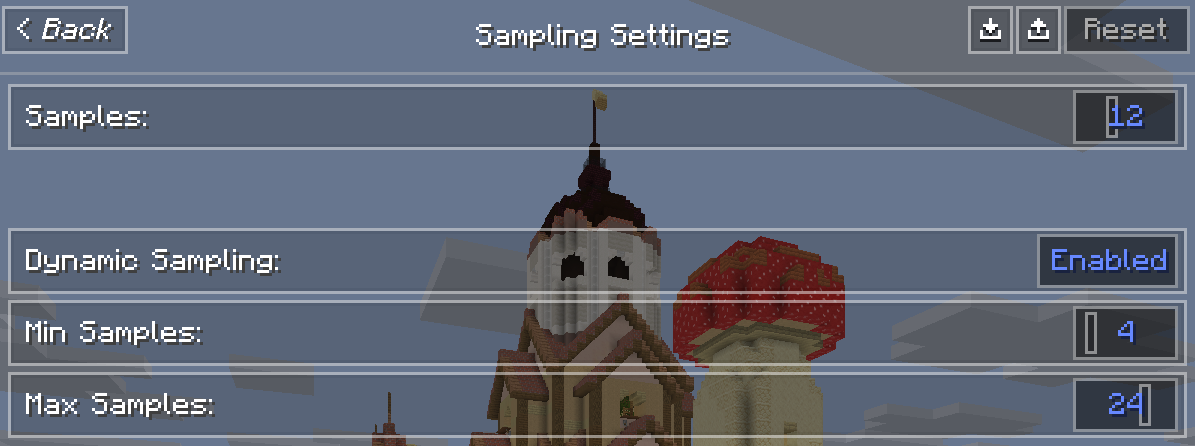
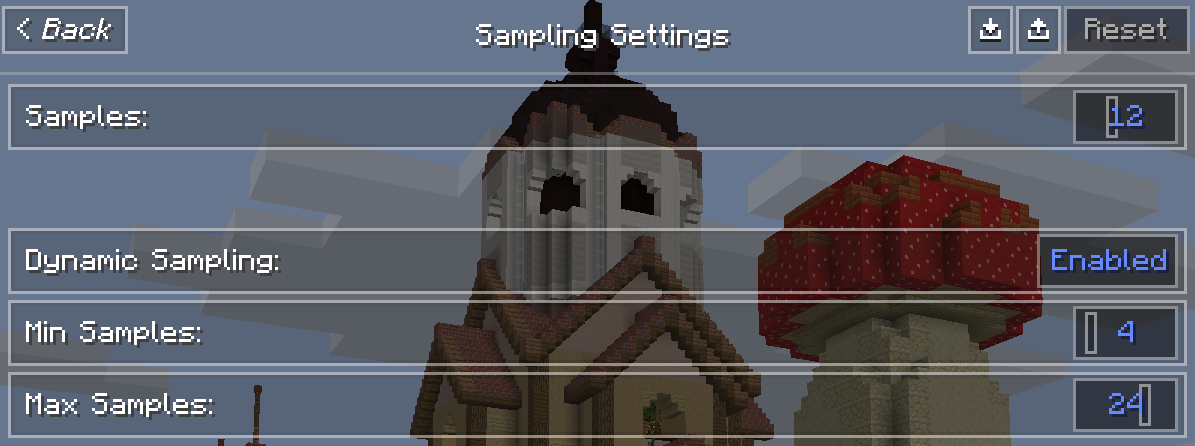
directional shading! bumped to v1.4

diff --git a/README.md b/README.md
@@ -5,25 +5,54 @@ Also, please try playing with settings. You may not like the default config, may
 
 Shader Settings
 ---
-![shader settings](https://github.com/ThunderFound/thunders-motion-blur/blob/main/images/thunders-mb-settings.png?raw=true)
-
+![shader settings](https://github.com/ThunderFound/thunders-motion-blur/blob/main/images/thunders-mb-settings.png?raw=true)  
 Intensity - how strong blur is  
 Max Velocity - limits blur streak length  
 Hand Blur - whether hand should be blurred too  
-Dither Mode - dithering algorithm for debanding  
-Depth Dilation - reduces blur bleeding at edges
+Dither Mode - dithering algorithm for debanding (examples further down)  
+Depth Dilation - reduces blur bleeding at edges  
+<br/>
 
-![sampling settings](https://github.com/ThunderFound/thunders-motion-blur/blob/main/images/thunders-mb-settings-sampling.png?raw=true)
+![sampling settings](https://github.com/ThunderFound/thunders-motion-blur/blob/main/images/thunders-mb-settings-sampling.png?raw=true)  
 Samples - more = smoother, but slower  
-Dynamic Sampling - change samples value based on velocity
+Dynamic Sampling - change samples value based on velocity  
+<br/>
+
+![extra settings](https://github.com/ThunderFound/thunders-motion-blur/blob/main/images/thunders-mb-settings-extra.png?raw=true)  
+Directional Shading (examples further down)  
+<br/>
 
 Dither modes
 ---
-### Off
-![off](https://github.com/ThunderFound/thunders-motion-blur/blob/main/images/off.png?raw=true)
+<table frame="void" rules="none">
+  <tr>
+    <td align="center">
+      Off<br>
+      <img src="https://github.com/ThunderFound/thunders-motion-blur/blob/main/images/off.png?raw=true" width="100%">
+    </td>
+    <td align="center">
+      IGN<br>
+      <img src="https://github.com/ThunderFound/thunders-motion-blur/blob/main/images/ign.png?raw=true" width="100%">
+    </td>
+    <td align="center">
+      Blue Noise<br>
+      <img src="https://github.com/ThunderFound/thunders-motion-blur/blob/main/images/blue_noise.png?raw=true" width="100%">
+    </td>
+  </tr>
+</table>
+<br/>
 
-### IGN
-![ign](https://github.com/ThunderFound/thunders-motion-blur/blob/main/images/ign.png?raw=true)
-
-### Blue Noise
-![blue noise](https://github.com/ThunderFound/thunders-motion-blur/blob/main/images/blue_noise.png?raw=true)
+Directional Shading
+---
+<table frame="void" rules="none">
+  <tr>
+    <td align="center">
+      Off<br>
+      <img src="https://github.com/ThunderFound/thunders-motion-blur/blob/main/images/directional-shading-off.jpg?raw=true" width="100%">
+    </td>
+    <td align="center">
+      On<br>
+      <img src="https://github.com/ThunderFound/thunders-motion-blur/blob/main/images/directional-shading-on.jpg?raw=true" width="100%">
+    </td>
+  </tr>
+</table>